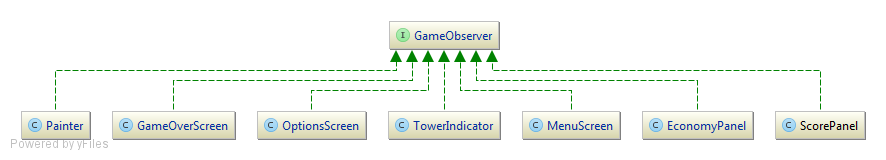
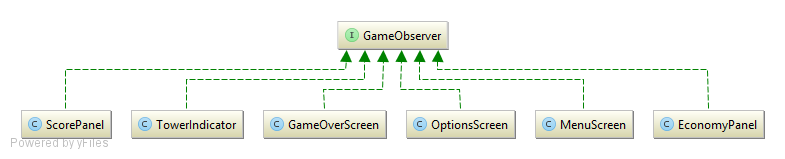
Removed unused GameObserver implementation for Painter

diff --git a/src/se/liu/ida/tddd78/towerdefense/Painter.java b/src/se/liu/ida/tddd78/towerdefense/Painter.java
@@ -1,6 +1,5 @@
 package se.liu.ida.tddd78.towerdefense;
 
-import se.liu.ida.tddd78.towerdefense.interfaces.GameObserver;
 import se.liu.ida.tddd78.towerdefense.entities.abstracts.GameEntity;
 import se.liu.ida.tddd78.towerdefense.entities.tile.Tile;
 
@@ -10,7 +9,7 @@ import java.awt.*;
 /**
  * Handles the drawing of all game entities and tiles on the board.
  */
-public class Painter extends JComponent implements GameObserver {
+public class Painter extends JComponent {
 
     private static final int SCREEN_WIDTH_LARGEST = 4000;
     private static final int SCREEN_WIDTH_LARGER = 3200;
@@ -86,8 +85,4 @@ public class Painter extends JComponent implements GameObserver {
                 Board.BOARD_SIZE * this.scale);
     }
 
-    @Override
-    public void onNotify(Game game) {
-        this.repaint( );
-    }
 }
